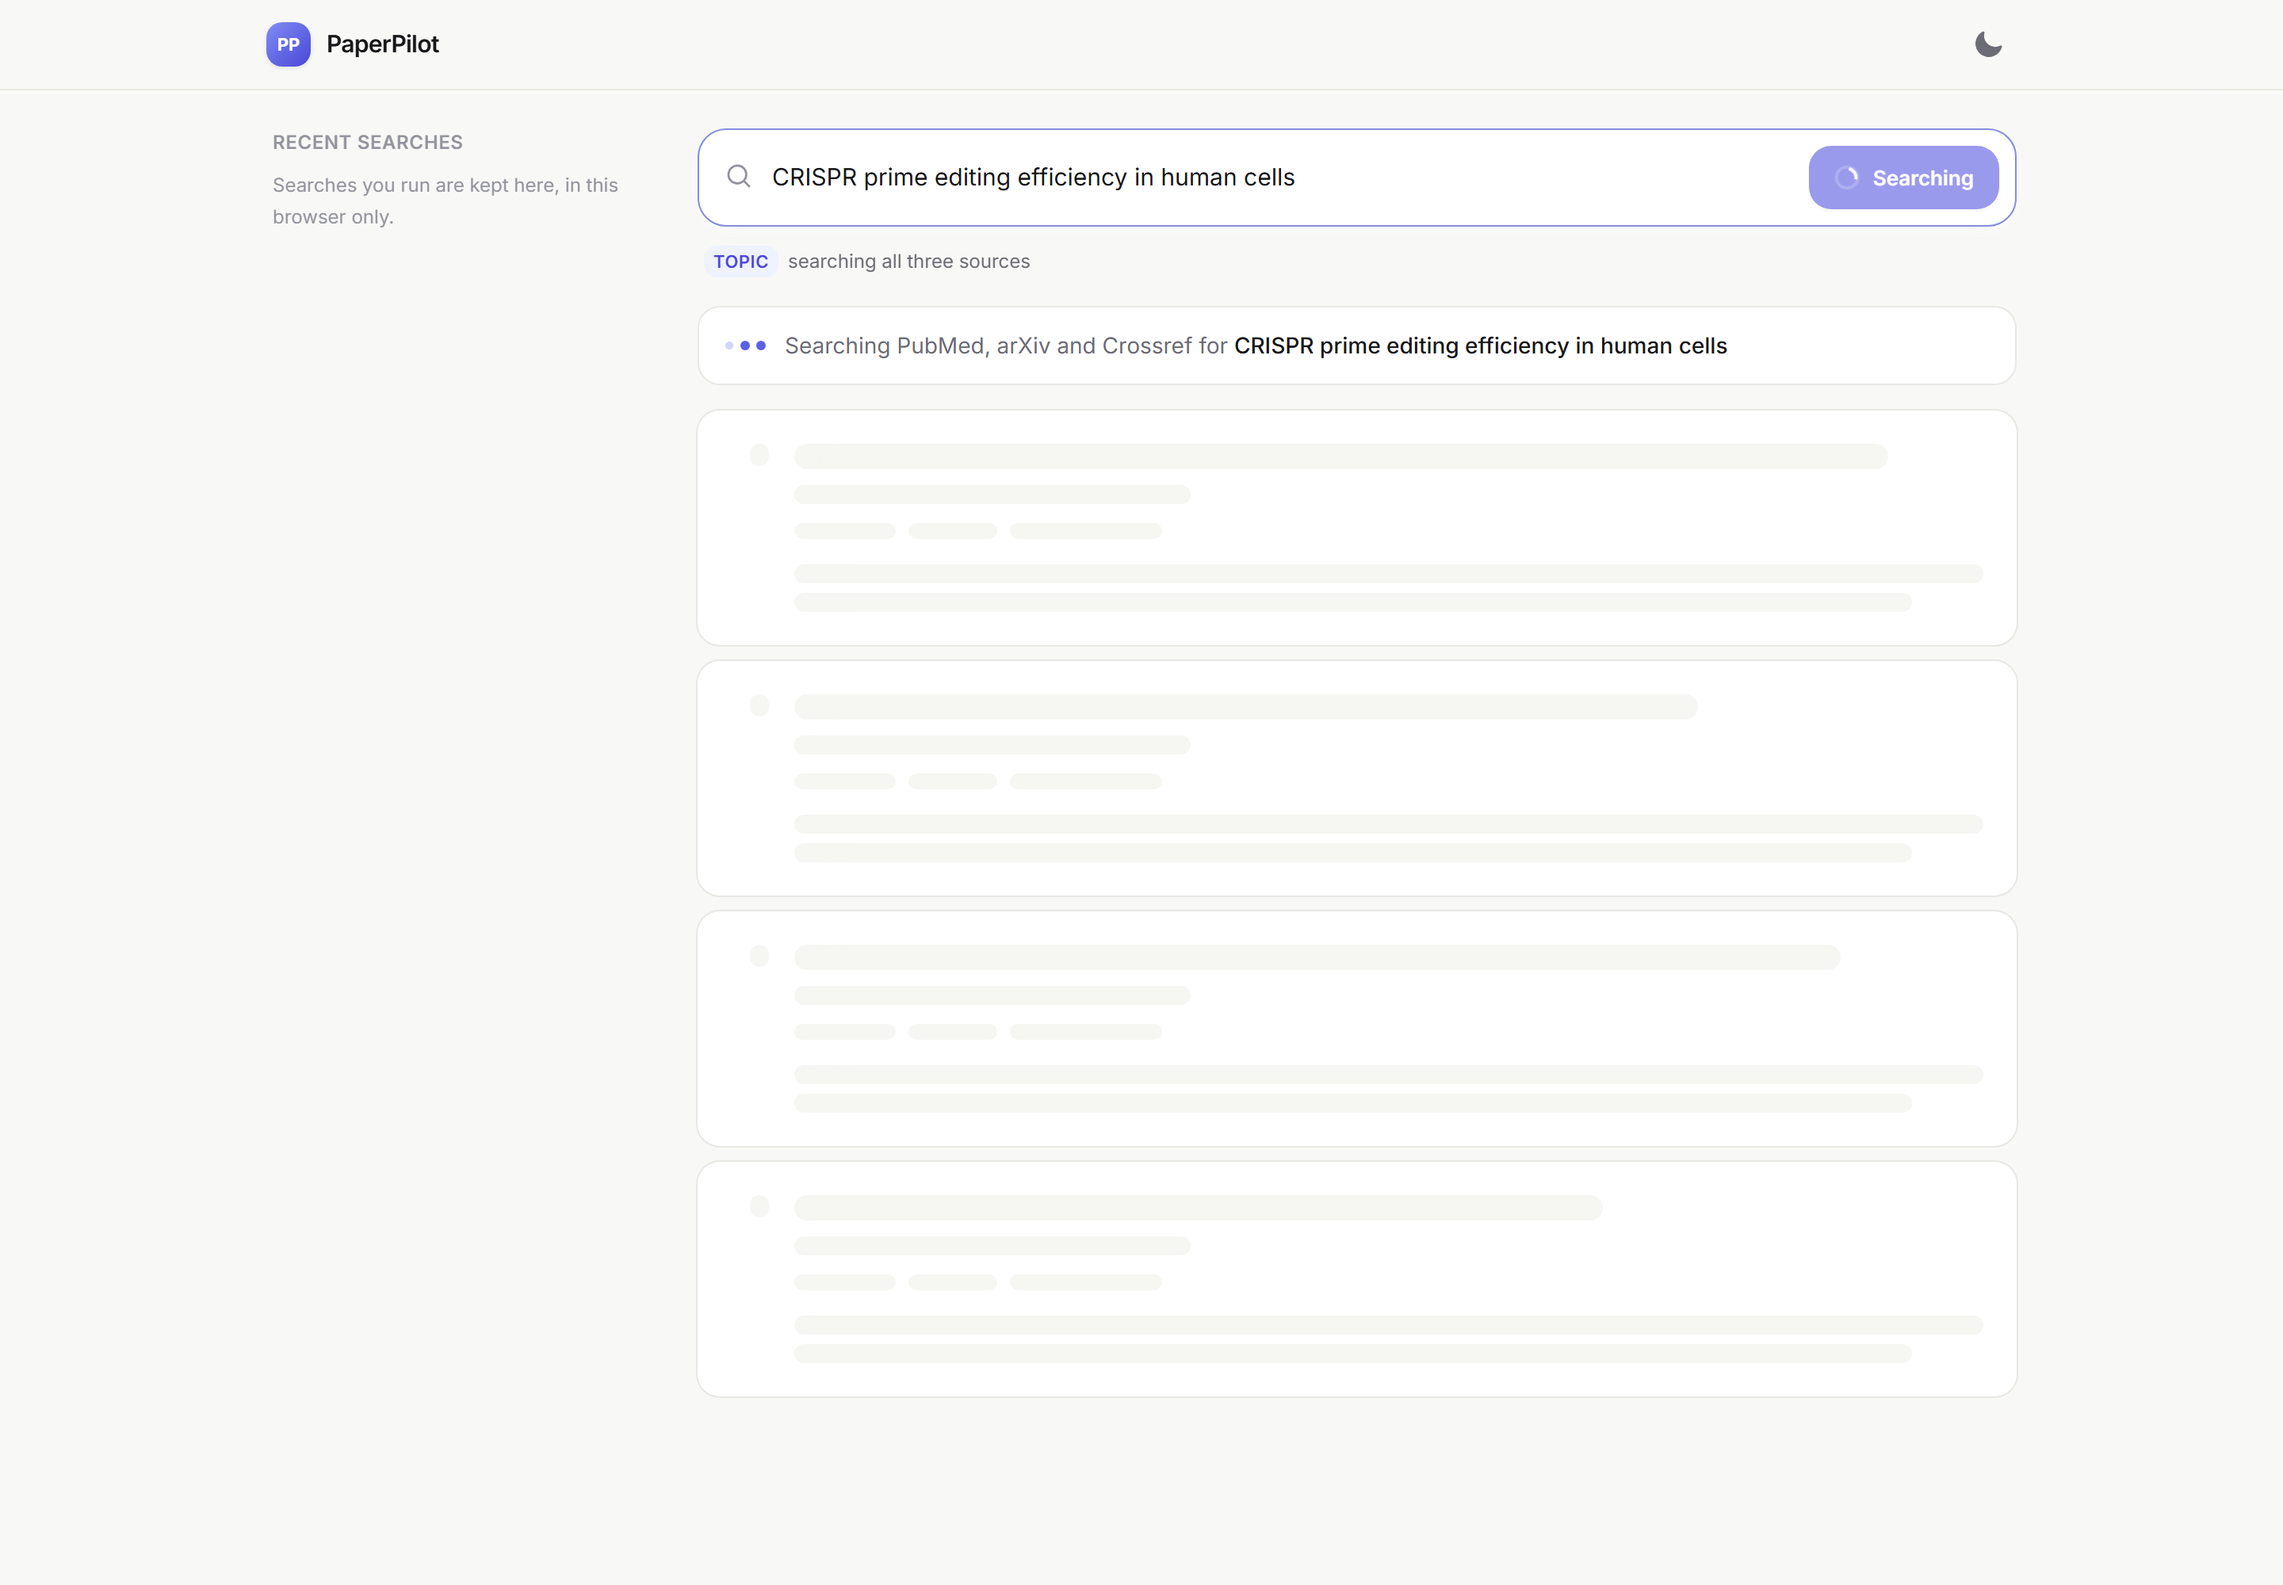
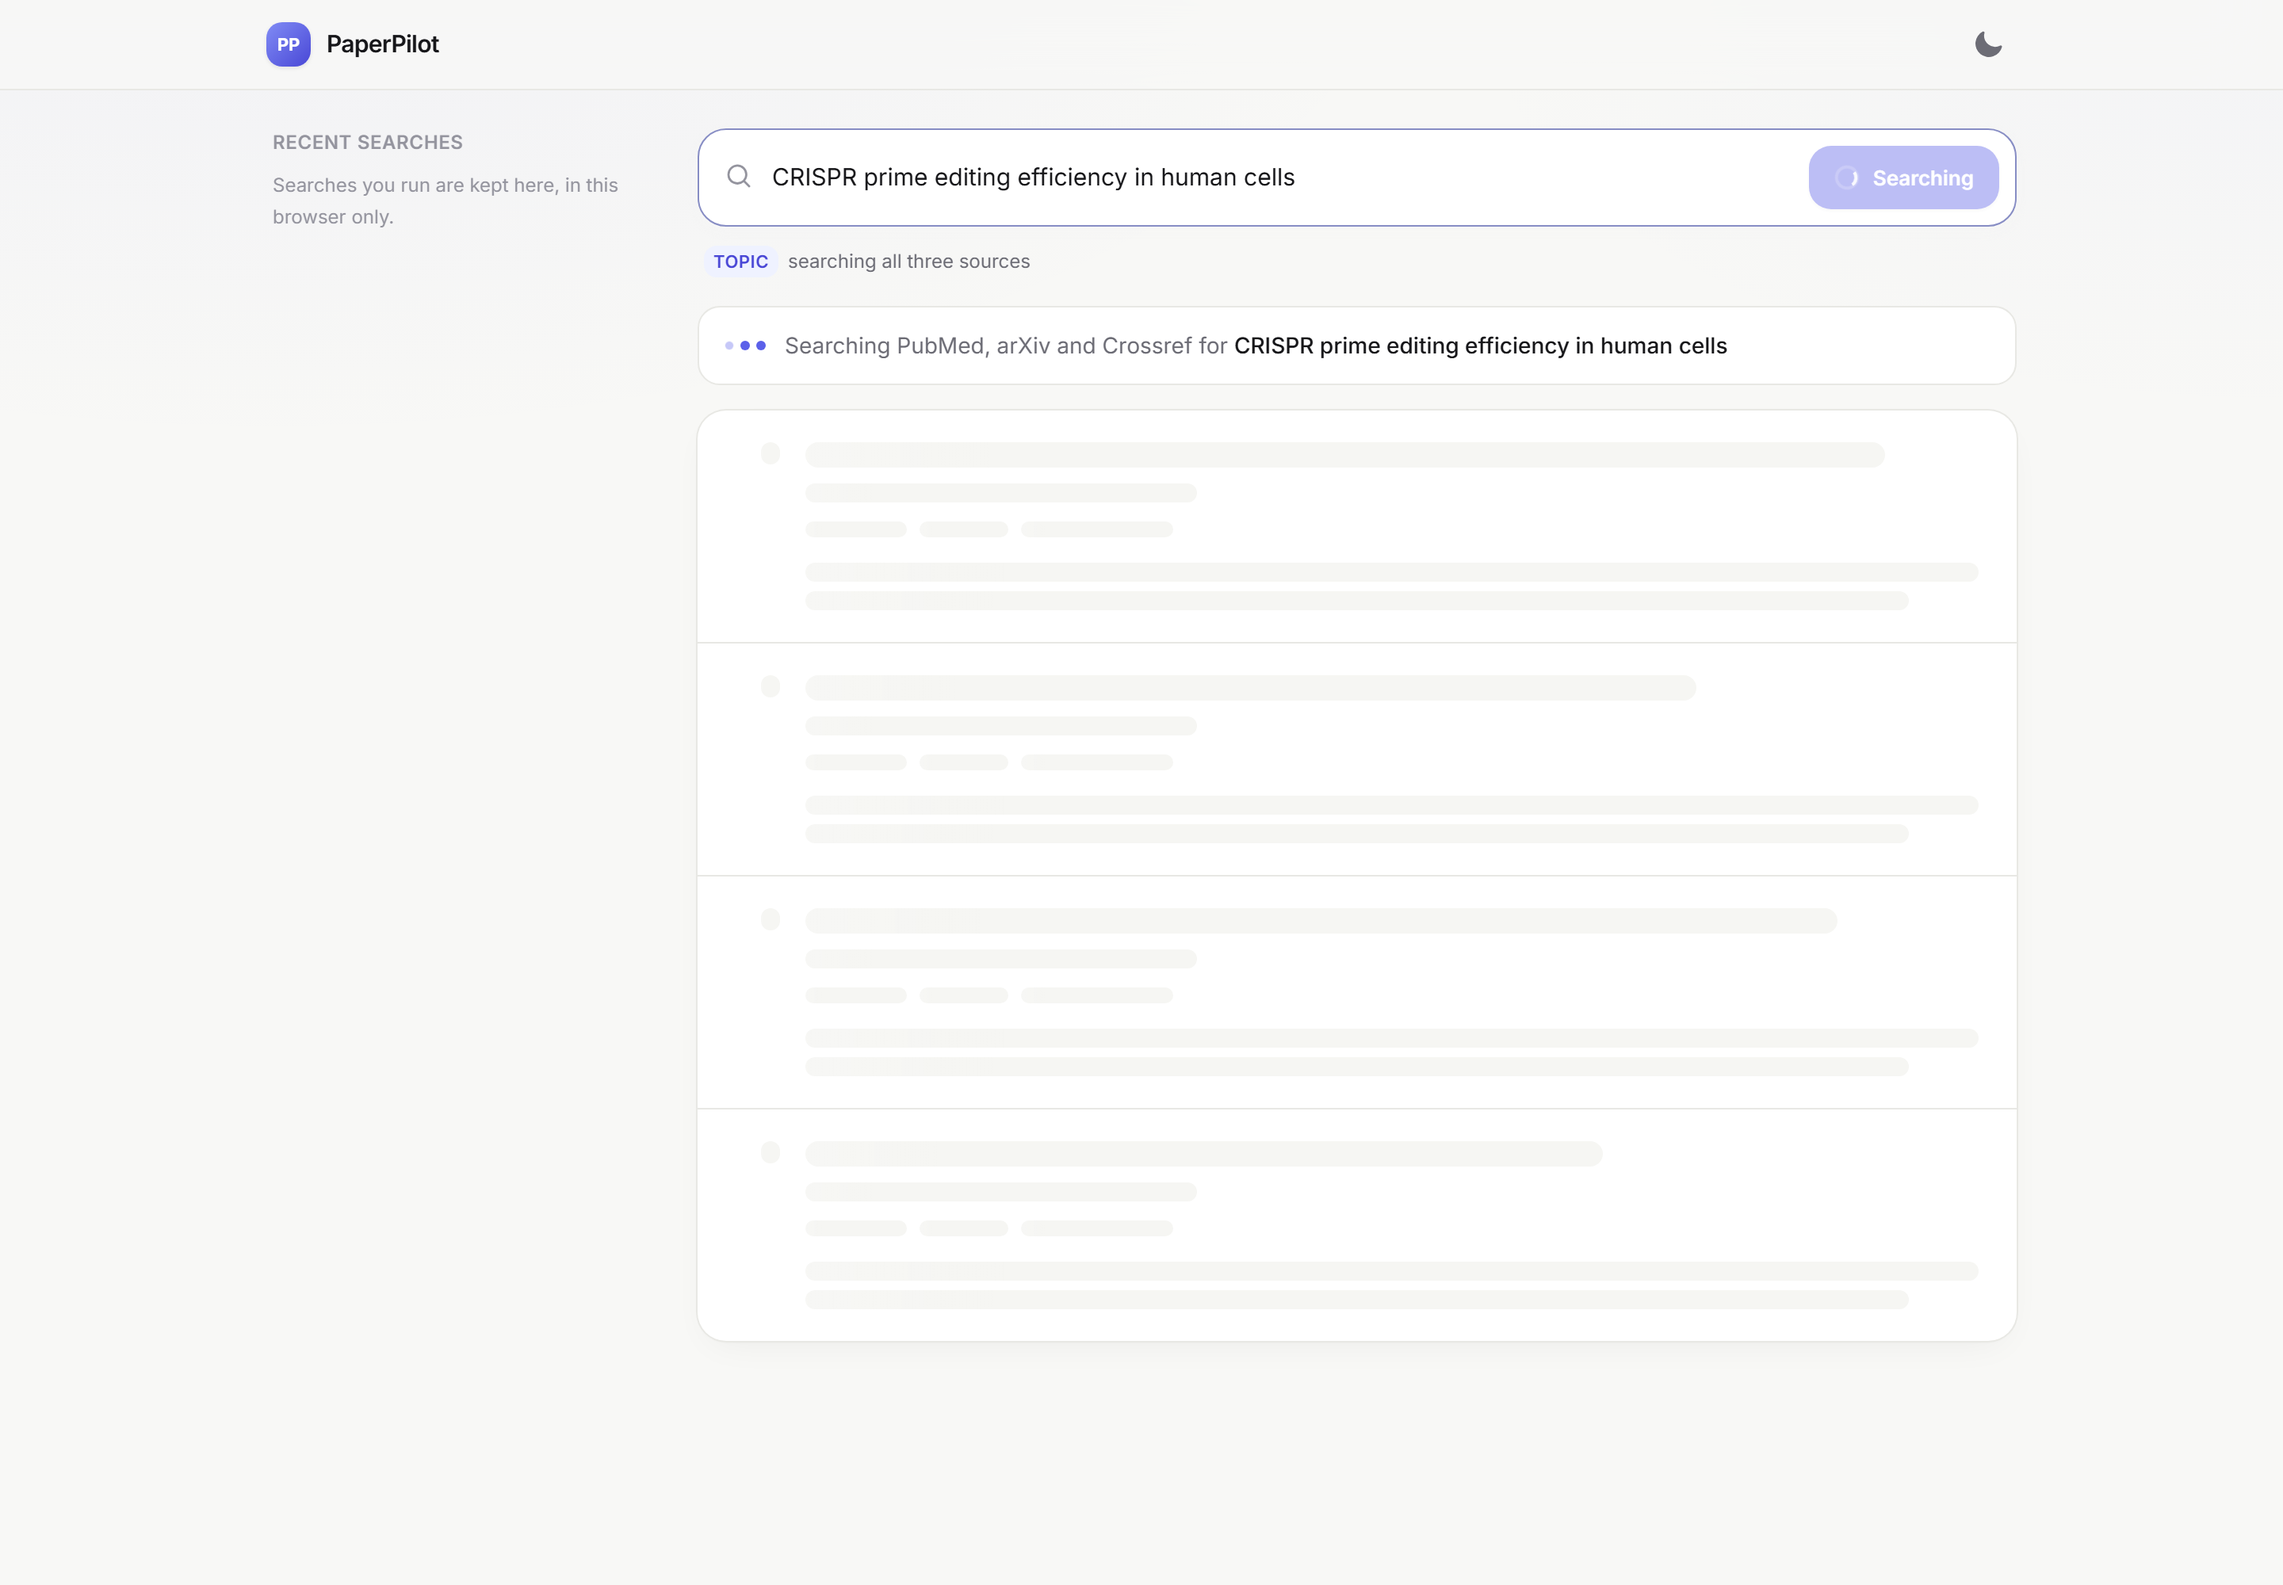
fix: tsconfig referenced projects were never caching, and rebuilt every time
`tsconfig.app.json` and `tsconfig.node.json` are referenced projects but
neither set `composite: true`. Without it, build mode does not know these
are check-only projects: it computes their expected outputs as emitted
JavaScript, looks for `src/App.js`, never finds it because `noEmit` is
set, and concludes the project is stale. Every `tsc -b` was a cold build,
and the `tsBuildInfoFile` both configs carefully specify was written and
then never trusted.

  $ tsc -b --verbose        # before
  Project 'tsconfig.app.json' is out of date because output file
  'src/App.js' does not exist

  $ tsc -b --verbose        # after
  Project 'tsconfig.app.json' is up to date because newest input
  'src/App.tsx' is older than output '...tsconfig.app.tsbuildinfo'

Nothing ever failed, which is why it survived: the only symptom was every
build paying full cost. Both configs now carry the flag and a comment
saying what it is load-bearing for.

Also adds `isolatedModules`, which was missing from both. Vite transpiles
with esbuild one file at a time, so constructs needing whole-program
knowledge to erase are a runtime bug waiting to happen.
`verbatimModuleSyntax` was covering the import/export half of that on its
own; this covers the rest.

ui: results are one surface, not fifty boxes

Fifty individually bordered cards is what still read as a form: the eye
has to re-enter a container at every result instead of running down a
[…]

Changed region(s): [[0.7812, 0.093, 0.875, 0.155]]

diff --git a/frontend/src/index.css b/frontend/src/index.css
@@ -95,6 +95,14 @@
 
   body {
     @apply bg-canvas text-body antialiased;
+    /* A single flat fill behind a page of white boxes is what reads as a
+       form. Two very wide, very low-opacity washes give the page a light
+       source, so surfaces sit *on* something instead of floating on grey.
+       Fixed attachment keeps them still while the results scroll. */
+    background-image:
+      radial-gradient(80rem 40rem at 12% -10%, rgb(var(--accent-500) / 0.05), transparent 60%),
+      radial-gradient(60rem 30rem at 100% 0%, rgb(var(--accent-400) / 0.04), transparent 55%);
+    background-attachment: fixed;
     font-feature-settings:
       'cv02','cv03','cv04','cv11','ss01','calt';
     /* Long titles break far more gracefully with the modern algorithms,
@@ -147,24 +155,43 @@
     @apply rounded-xl border border-line bg-surface;
   }
 
-  /* A result row. Flat at rest so a list of fifty reads as a list and not
-     as fifty competing boxes; it lifts only under the pointer. */
-  .card {
-    @apply relative rounded-xl border border-transparent bg-surface transition duration-200;
-    box-shadow: 0 0 0 1px rgb(var(--line));
-  }
-  .card:hover {
-    @apply shadow-raised;
+  /* Results live in ONE surface, divided by hairlines — not fifty separate
+     bordered cards. Fifty boxes each drawing their own outline is the thing
+     that made this read as a form: the eye has to re-enter a container on
+     every result instead of running down a single column. One panel with
+     dividers is how a list is supposed to look, and it is what every
+     current tool in this category does. */
+  .results-panel {
+    @apply overflow-hidden rounded-2xl bg-surface;
     box-shadow:
-      0 0 0 1px rgb(var(--line-strong)),
-      0 1px 2px rgb(var(--shadow) / 0.05),
-      0 4px 12px -2px rgb(var(--shadow) / 0.08);
+      0 0 0 1px rgb(var(--line)),
+      0 1px 2px rgb(var(--shadow) / 0.04),
+      0 8px 24px -8px rgb(var(--shadow) / 0.06);
   }
-  .card:has(:focus-visible) {
-    box-shadow: 0 0 0 1px rgb(var(--accent-400));
+
+  /* A row. No border of its own: the divider above it is the boundary, and
+     hover tints rather than lifts, because a row cannot lift out of a
+     panel it is inset into. */
+  .row {
+    @apply relative border-t border-line transition-colors duration-150;
   }
-  .card[data-selected='true'] {
-    box-shadow: 0 0 0 1.5px rgb(var(--accent-500));
+  .row:first-child {
+    @apply border-t-0;
+  }
+  .row:hover {
+    background-color: rgb(var(--sunken) / 0.6);
+  }
+  .row:has(:focus-visible) {
+    background-color: rgb(var(--accent-50) / 0.6);
+  }
+  /* The selected marker is a rail on the leading edge rather than a ring:
+     a ring inside a divided panel fights the dividers on both sides. */
+  .row[data-selected='true'] {
+    background-color: rgb(var(--accent-50) / 0.5);
+  }
+  .row[data-selected='true']::before {
+    content: '';
+    @apply absolute inset-y-0 start-0 w-[3px] bg-accent-500;
   }
 
   /* The accessible "click anywhere on the card" pattern: the *title link*

diff --git a/frontend/src/components/PaperCard.tsx b/frontend/src/components/PaperCard.tsx
@@ -1,6 +1,6 @@
 import type { Paper } from '@/types/domain'
 
-import { ScoreBar, SourceBadges, cx, formatAuthors, formatDate } from './primitives'
+import { ScoreBar, SourceBadges, formatAuthors, formatDate } from './primitives'
 import { SummaryBlock } from './SummaryBlock'
 
 /**
@@ -47,7 +47,7 @@ export function PaperCard({
   return (
     <article
       data-selected={selected}
-      className={cx('card group animate-fade-in p-4 sm:p-5', selected && 'bg-accent-50/40')}
+      className="row group px-4 py-4 sm:px-6 sm:py-5"
     >
       <div className="flex gap-3 sm:gap-4">
         {selectionMode ? (
@@ -61,14 +61,14 @@ export function PaperCard({
         ) : (
           <span
             aria-hidden="true"
-            className="mt-0.5 hidden w-6 shrink-0 text-right text-sm font-medium tabular-nums text-faint sm:block"
+            className="mt-1 hidden w-7 shrink-0 text-right text-sm font-medium tabular-nums text-faint sm:block"
           >
             {rank}
           </span>
         )}
 
         <div className="min-w-0 flex-1">
-          <h2 className="text-lg font-semibold text-strong">
+          <h2 className="text-xl font-semibold text-strong">
             {/* The stretched control. It opens the detail view rather than
                 navigating away, because the detail view is where the
                 entities, the full summary and the citation live — the
@@ -85,7 +85,7 @@ export function PaperCard({
             </button>
           </h2>
 
-          <p className="mt-1 truncate text-base text-muted">{formatAuthors(authorNames)}</p>
+          <p className="mt-1.5 truncate text-sm text-muted">{formatAuthors(authorNames)}</p>
 
           <div className="meta-row mt-2 flex flex-wrap items-center text-xs text-muted">
             <SourceBadges sources={sources} />

diff --git a/frontend/src/components/states.tsx b/frontend/src/components/states.tsx
@@ -22,11 +22,11 @@ import { Button } from './primitives'
 export function ResultSkeleton() {
   const widths = ['w-[92%]', 'w-[76%]', 'w-[88%]', 'w-[68%]']
   return (
-    <div className="space-y-2.5" aria-hidden="true">
+    <div className="results-panel" aria-hidden="true">
       {widths.map((width, index) => (
-        <div key={index} className="card p-4 sm:p-5">
+        <div key={index} className="row px-4 py-4 sm:px-6 sm:py-5">
           <div className="flex gap-3 sm:gap-4">
-            <div className="hidden w-6 shrink-0 sm:block">
+            <div className="hidden w-7 shrink-0 sm:block">
               <div className="skeleton ms-auto h-3.5 w-3" />
             </div>
             <div className="min-w-0 flex-1 space-y-2.5">

diff --git a/frontend/src/App.tsx b/frontend/src/App.tsx
@@ -279,7 +279,7 @@ export default function App() {
                     </button>
                   ) : null}
 
-                  <div className="space-y-2.5">
+                  <div className="results-panel">
                     {visiblePapers.map((paper, index) => (
                       <PaperCard
                         key={paper.id}
